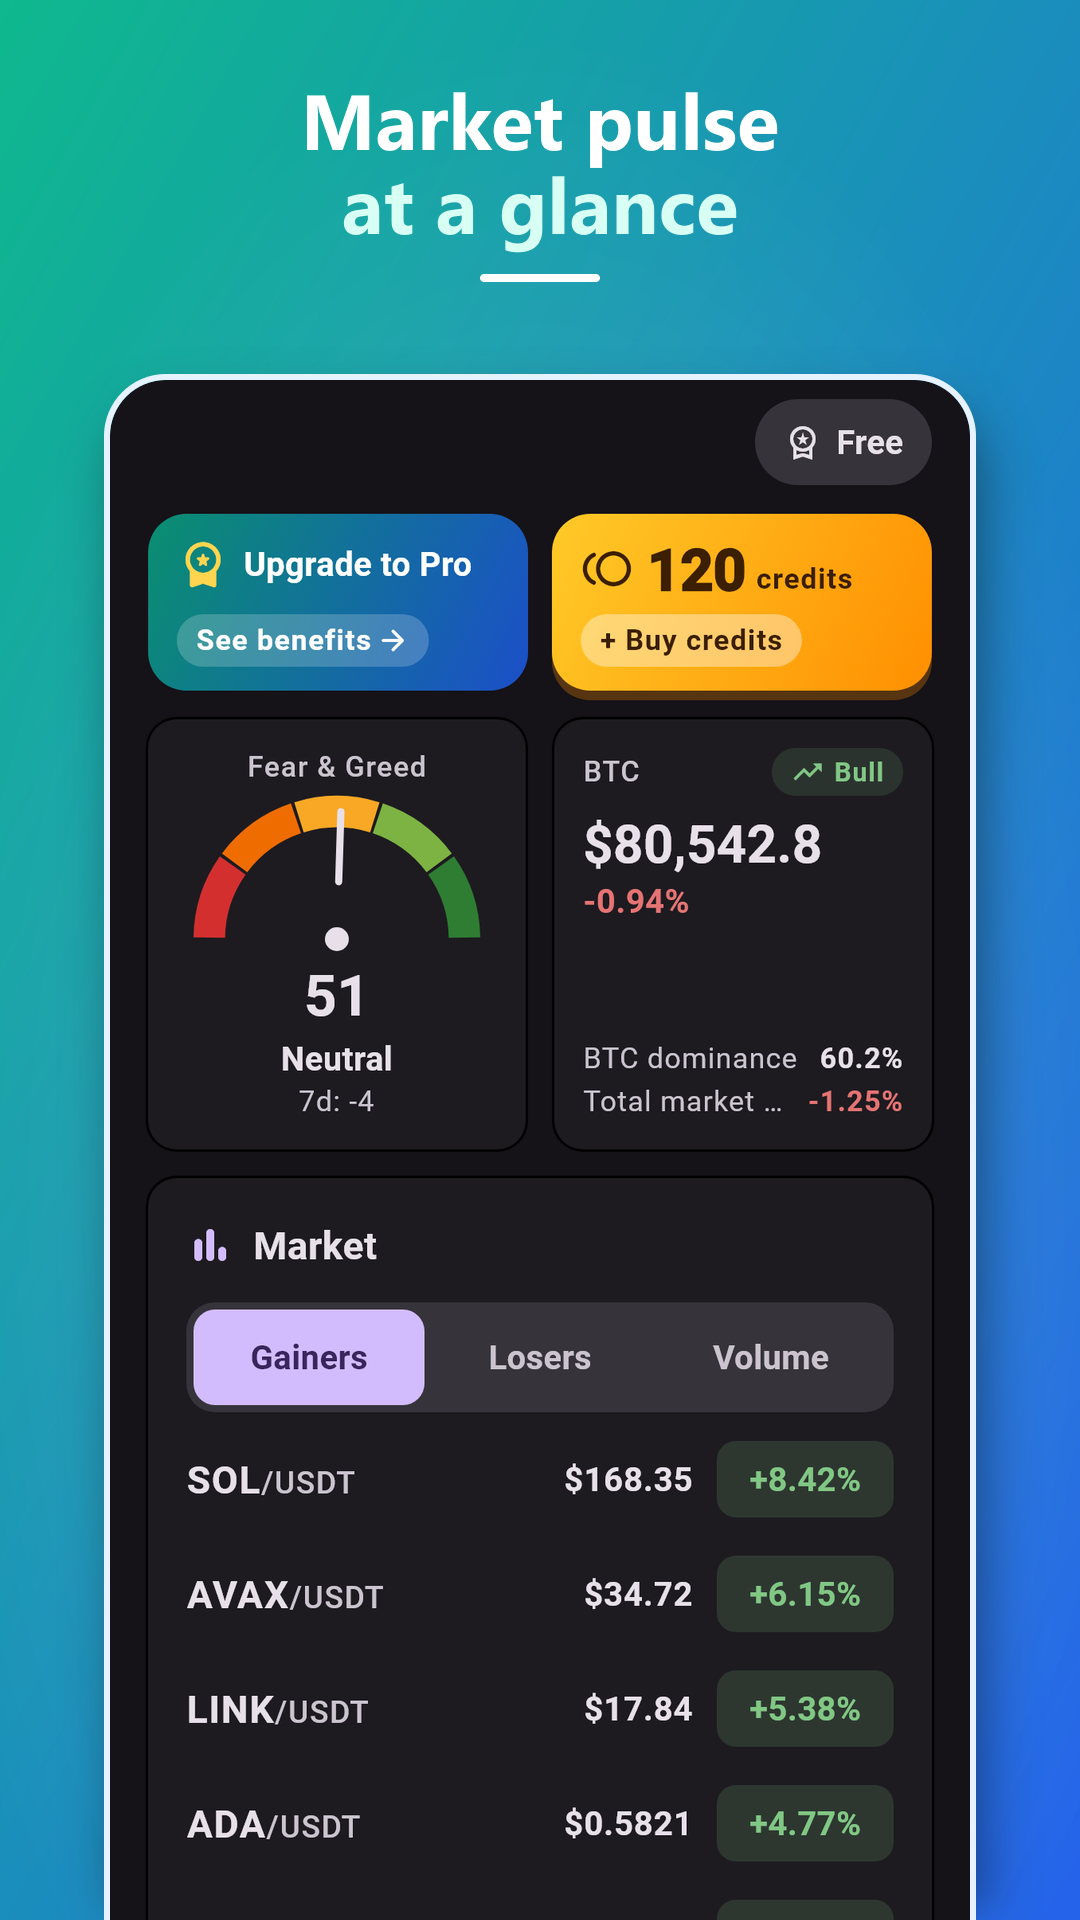
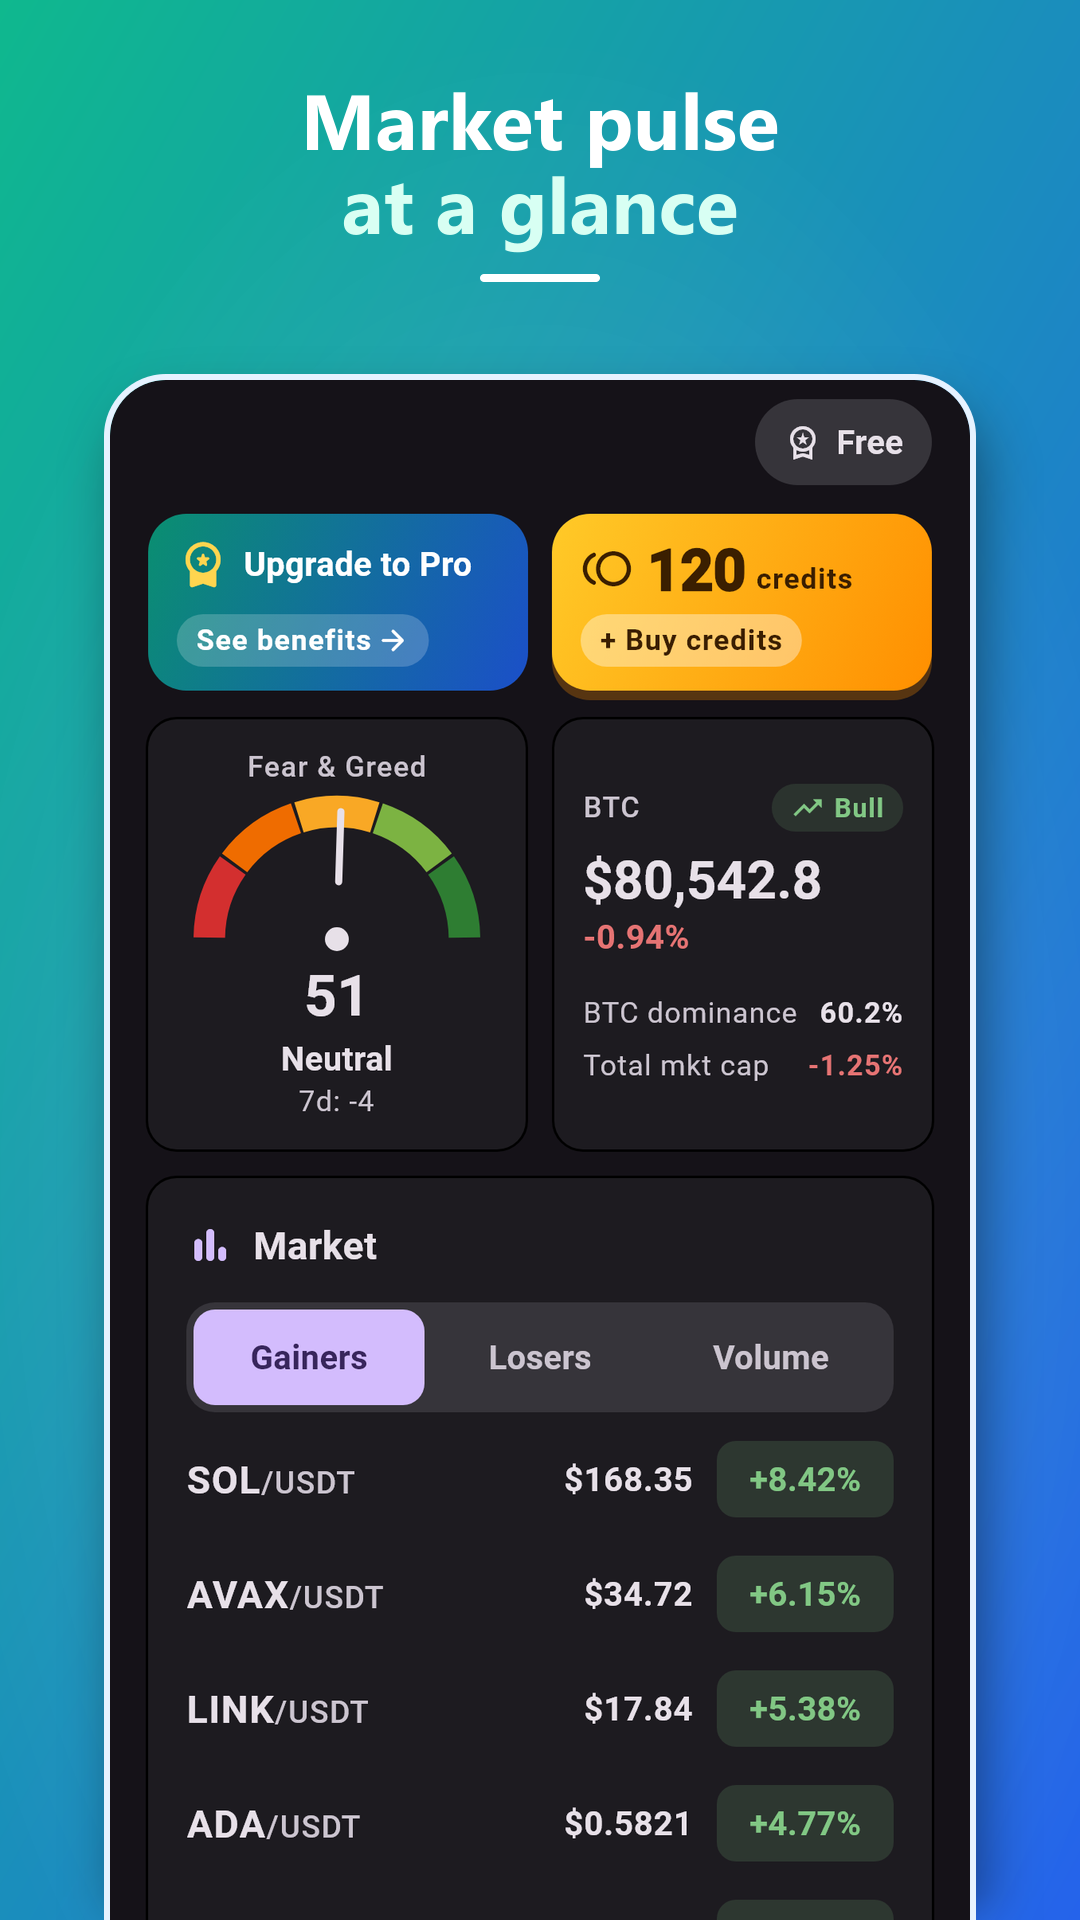
Fix invisible radar score ring arc; tidy home BTC card (shorter cap label, centered rows)
Ring: the arc reused the translucent track Paint, so Paint.color alpha dimmed the
sweep shader; use a separate opaque paint and wrap the gradient so the start cap
keeps the start colour. Adds a pixel-level painter test.
BTC card: shorten homeTotalCap (en/tr/es), allow 2-line labels, centre content
when stretched instead of a large empty gap. Clean analyzer warnings in
store screenshot tests; regenerate store screenshots (home, radar x3).

Changed region(s): [[0.5194, 0.375, 0.825, 0.5938], [0.7639, 0.5, 0.8556, 0.5938]]

diff --git a/test/radar_score_ring_paint_test.dart b/test/radar_score_ring_paint_test.dart
@@ -1,0 +1,57 @@
+import 'package:flutter/material.dart';
+import 'package:flutter/rendering.dart';
+import 'package:flutter_test/flutter_test.dart';
+import 'package:kriptoanaliz/l10n/app_localizations.dart';
+import 'package:kriptoanaliz/widgets/radar/radar_widgets.dart';
+
+void main() {
+  testWidgets('score ring arc is opaque/bright while the track stays dim', (
+    tester,
+  ) async {
+    final key = GlobalKey();
+    await tester.pumpWidget(
+      MaterialApp(
+        localizationsDelegates: AppLocalizations.localizationsDelegates,
+        supportedLocales: AppLocalizations.supportedLocales,
+        home: Center(
+          child: RepaintBoundary(
+            key: key,
+            child: Container(
+              color: Colors.black,
+              child: RadarScoreRing(
+                score: 78,
+                size: 200,
+                brightness: Brightness.dark,
+                trackColor: Colors.white.withValues(alpha: 0.12),
+              ),
+            ),
+          ),
+        ),
+      ),
+    );
+    final boundary =
+        key.currentContext!.findRenderObject() as RenderRepaintBoundary;
+    final data = await tester.runAsync(() async {
+      final img = await boundary.toImage();
+      final bytes = await img.toByteData();
+      return (img.width, bytes!);
+    });
+    final w = data!.$1;
+    final bytes = data.$2;
+    double luma(int x, int y) {
+      final i = (y * w + x) * 4;
+      return (bytes.getUint8(i) +
+              bytes.getUint8(i + 1) +
+              bytes.getUint8(i + 2)) /
+          3 /
+          255;
+    }
+
+    // Arc: 3 o'clock is within 78% sweep. Track: ~330deg clockwise from top.
+    final arc = luma(189, 100);
+    final track = luma(56, 23);
+    expect(arc, greaterThan(0.45), reason: 'arc must be bright');
+    expect(track, lessThan(0.2), reason: 'track must stay dim');
+    expect(arc, greaterThan(track * 3));
+  });
+}

diff --git a/lib/widgets/radar/radar_widgets.dart b/lib/widgets/radar/radar_widgets.dart
@@ -196,19 +196,30 @@ class _RingPainter extends CustomPainter {
   void paint(Canvas canvas, Size size) {
     final rect = Offset.zero & size;
     final arcRect = rect.deflate(stroke / 2);
+    final trackPaint = Paint()
+      ..style = PaintingStyle.stroke
+      ..strokeWidth = stroke
+      ..strokeCap = StrokeCap.round
+      ..color = track;
+    canvas.drawArc(arcRect, 0, math.pi * 2, false, trackPaint);
+    if (progress <= 0) return;
+    final sweep = math.pi * 2 * progress;
+    // Separate, fully opaque paint: a shader is modulated by Paint.color's
+    // alpha, so reusing the (translucent) track paint dimmed the arc.
     final paint = Paint()
       ..style = PaintingStyle.stroke
       ..strokeWidth = stroke
-      ..strokeCap = StrokeCap.round;
-    canvas.drawArc(arcRect, 0, math.pi * 2, false, paint..color = track);
-    if (progress <= 0) return;
-    final sweep = math.pi * 2 * progress;
-    paint.shader = SweepGradient(
-      startAngle: 0,
-      endAngle: math.max(sweep, 0.01),
-      colors: [start, end],
-      transform: const GradientRotation(-math.pi / 2),
-    ).createShader(rect);
+      ..strokeCap = StrokeCap.round
+      ..color = const Color(0xFFFFFFFF)
+      ..shader = SweepGradient(
+        // Full circle with stops so the round cap just before the start
+        // angle wraps back to the start colour (not the clamped end colour).
+        startAngle: 0,
+        endAngle: math.pi * 2,
+        colors: [start, end, start],
+        stops: [0, progress.clamp(0.01, 1.0), 1],
+        transform: const GradientRotation(-math.pi / 2),
+      ).createShader(rect);
     canvas.drawArc(arcRect, -math.pi / 2, sweep, false, paint);
   }
 

diff --git a/lib/widgets/home/market_pulse_row.dart b/lib/widgets/home/market_pulse_row.dart
@@ -168,7 +168,7 @@ class _BtcCard extends StatelessWidget {
         Expanded(
           child: Text(
             label,
-            maxLines: 1,
+            maxLines: 2,
             overflow: TextOverflow.ellipsis,
             style: muted,
           ),
@@ -205,6 +205,11 @@ class _BtcCard extends StatelessWidget {
         excludeSemantics: true,
         child: Column(
           crossAxisAlignment: CrossAxisAlignment.start,
+          // When stretched to the neighbour's height, centre the content
+          // instead of pinning the rows to the bottom (large empty gap).
+          mainAxisAlignment: expand
+              ? MainAxisAlignment.center
+              : MainAxisAlignment.start,
           children: [
             Row(
               children: [
@@ -247,15 +252,14 @@ class _BtcCard extends StatelessWidget {
                   color: changeColor(context, b.change24hPct),
                 ),
               ),
-            if (expand) const Spacer(),
-            const SizedBox(height: 8),
+            SizedBox(height: expand ? 14 : 8),
             if (b?.dominancePct != null)
               line(
                 l10n.homeBtcDominance,
                 formatPlainPct(b!.dominancePct!, locale),
               ),
             if (cap?.usd != null) ...[
-              const SizedBox(height: 2),
+              SizedBox(height: expand ? 6 : 2),
               line(
                 l10n.homeTotalCap,
                 capChange != null

diff --git a/test/store_screenshots/store_screenshots_test.dart b/test/store_screenshots/store_screenshots_test.dart
@@ -14,9 +14,7 @@ import 'package:kriptoanaliz/ads/ads_controller.dart';
 import 'package:kriptoanaliz/data/app_config_api.dart';
 import 'package:kriptoanaliz/data/binance_klines_api.dart';
 import 'package:kriptoanaliz/data/chart_signal_api.dart';
-import 'package:kriptoanaliz/data/coin_overview_api.dart';
 import 'package:kriptoanaliz/data/home_api.dart';
-import 'package:kriptoanaliz/data/kline_stream.dart';
 import 'package:kriptoanaliz/data/price_alert_api.dart';
 import 'package:kriptoanaliz/data/watchlist_api.dart';
 import 'package:kriptoanaliz/models/app_config.dart';

diff --git a/lib/l10n/app_localizations_tr.dart b/lib/l10n/app_localizations_tr.dart
@@ -1298,7 +1298,7 @@ class AppLocalizationsTr extends AppLocalizations {
   String get homeBtcDominance => 'BTC dominansı';
 
   @override
-  String get homeTotalCap => 'Toplam piyasa değeri';
+  String get homeTotalCap => 'Piyasa değeri';
 
   @override
   String homeRegimeLabel(String regime) {

diff --git a/lib/l10n/app_localizations_es.dart b/lib/l10n/app_localizations_es.dart
@@ -1338,7 +1338,7 @@ class AppLocalizationsEs extends AppLocalizations {
   String get homeBtcDominance => 'Dominancia BTC';
 
   @override
-  String get homeTotalCap => 'Capitalización total';
+  String get homeTotalCap => 'Cap. total';
 
   @override
   String homeRegimeLabel(String regime) {

diff --git a/lib/l10n/app_localizations.dart b/lib/l10n/app_localizations.dart
@@ -2251,7 +2251,7 @@ abstract class AppLocalizations {
   /// No description provided for @homeTotalCap.
   ///
   /// In en, this message translates to:
-  /// **'Total market cap'**
+  /// **'Total mkt cap'**
   String get homeTotalCap;
 
   /// No description provided for @homeRegimeLabel.

diff --git a/lib/l10n/app_localizations_en.dart b/lib/l10n/app_localizations_en.dart
@@ -1324,7 +1324,7 @@ class AppLocalizationsEn extends AppLocalizations {
   String get homeBtcDominance => 'BTC dominance';
 
   @override
-  String get homeTotalCap => 'Total market cap';
+  String get homeTotalCap => 'Total mkt cap';
 
   @override
   String homeRegimeLabel(String regime) {

diff --git a/test/store_screenshots/shot_support.dart b/test/store_screenshots/shot_support.dart
@@ -2,7 +2,6 @@
 // store_screenshots_test.dart): real fonts, a 1080x2400 phone surface and
 // PNG export of the rendered app.
 import 'dart:io';
-import 'dart:typed_data';
 import 'dart:ui' as ui;
 
 import 'package:flutter/material.dart';
